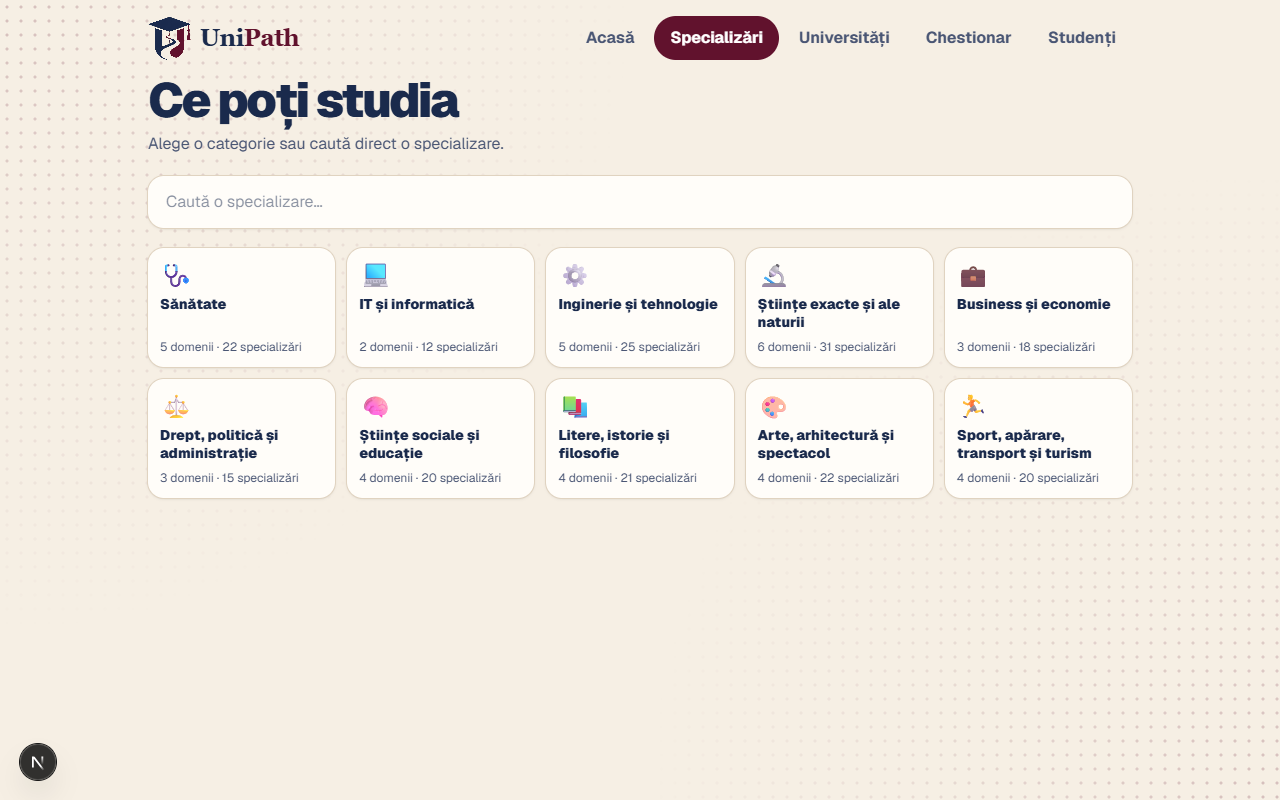
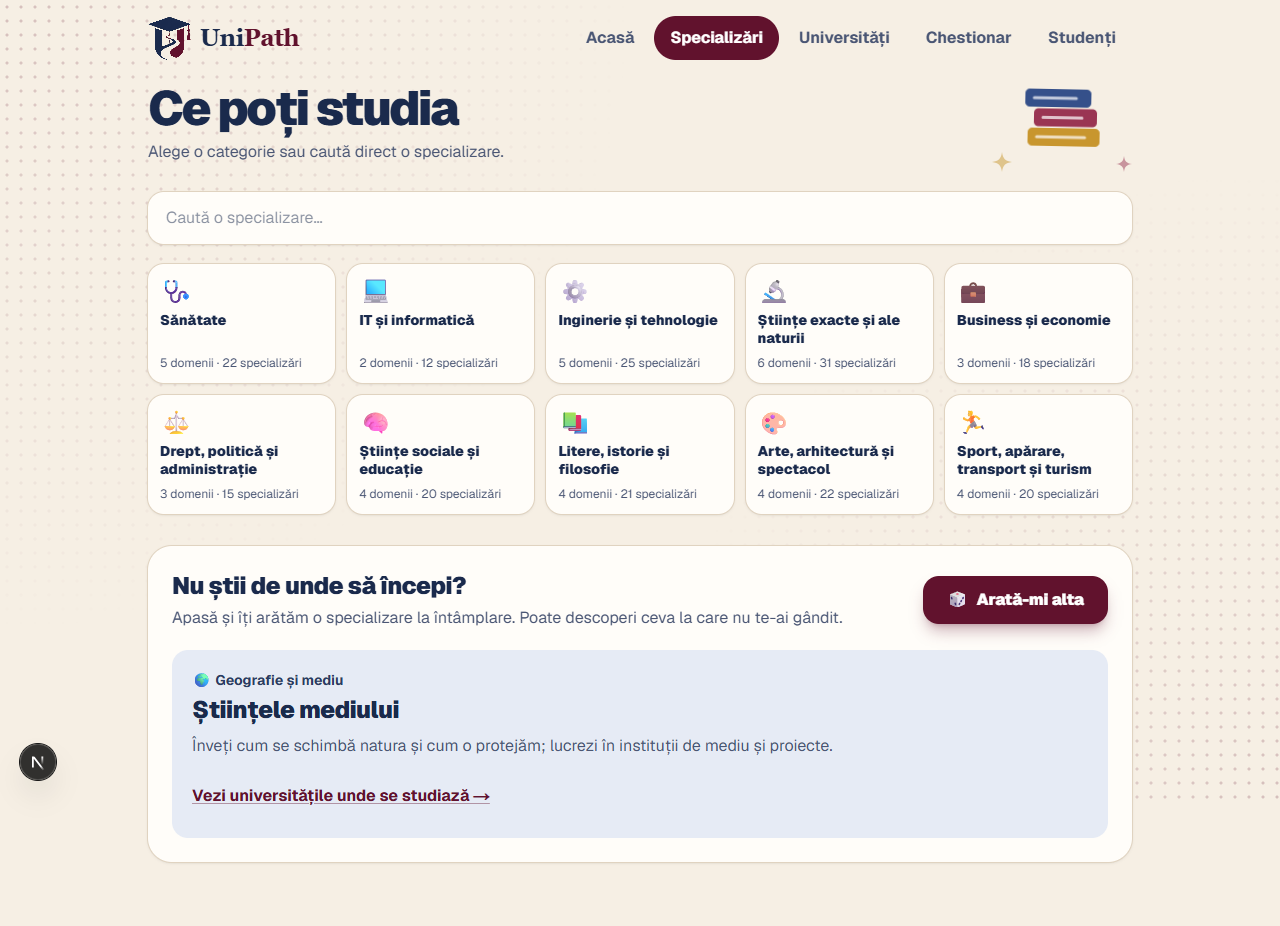
feat: illustration and a surprise-me card on the specializations page

diff --git a/apps/web/components/SurpriseSpecialization.tsx b/apps/web/components/SurpriseSpecialization.tsx
@@ -1,0 +1,67 @@
+"use client";
+// "Surprinde-mă": a button that shows one specialization picked at random, with its domain, a short description and a link to universities.
+import Link from "next/link";
+import { useState } from "react";
+import { domains, specializations } from "@/lib/data";
+import type { Specialization } from "@/lib/types";
+import { FAMILY_CLASSES, domainStyle } from "./domainStyle";
+
+export function SurpriseSpecialization() {
+  const [pick, setPick] = useState<Specialization | null>(null);
+  const [count, setCount] = useState(0);
+
+  // Picks on click only (never during render), and never the same one twice in a row.
+  function surprise() {
+    if (specializations.length === 0) return;
+    let next = specializations[Math.floor(Math.random() * specializations.length)];
+    if (pick && specializations.length > 1) {
+      while (next.id === pick.id) next = specializations[Math.floor(Math.random() * specializations.length)];
+    }
+    setPick(next);
+    setCount((c) => c + 1);
+  }
+
+  const domain = pick ? domains.find((d) => d.id === pick.domainId) : undefined;
+  const style = pick ? domainStyle(pick.domainId) : undefined;
+  const family = style ? FAMILY_CLASSES[style.family] : undefined;
+
+  return (
+    <section aria-labelledby="surpriza" className="mt-8 rounded-3xl bg-card p-6 shadow-sm ring-1 ring-line">
+      <div className="flex flex-col gap-4 sm:flex-row sm:items-center sm:justify-between">
+        <div>
+          <h2 id="surpriza" className="text-2xl font-black tracking-tight text-ink">
+            Nu știi de unde să începi?
+          </h2>
+          <p className="mt-1 text-ink-soft">Apasă și îți arătăm o specializare la întâmplare. Poate descoperi ceva la care nu te-ai gândit.</p>
+        </div>
+        <button
+          type="button"
+          onClick={surprise}
+          className="min-h-12 shrink-0 rounded-2xl bg-primary px-6 py-3 font-black text-white shadow-lg shadow-primary/30 transition hover:bg-primary-dark active:scale-[0.98]"
+        >
+          <span aria-hidden className="mr-2">🎲</span>
+          {pick ? "Arată-mi alta" : "Surprinde-mă"}
+        </button>
+      </div>
+
+      <div aria-live="polite">
+        {pick && domain && style && family && (
+          <div key={count} className={`rise mt-5 rounded-2xl p-5 ${family.band}`}>
+            <p className={`text-sm font-bold ${family.text}`}>
+              <span aria-hidden className="mr-1">{style.emoji}</span>
+              {domain.name}
+            </p>
+            <p className="mt-1 text-2xl font-black tracking-tight text-ink">{pick.name}</p>
+            <p className="mt-2 text-ink-soft">{pick.short}</p>
+            <Link
+              href={`/universitati?domeniu=${pick.domainId}`}
+              className="mt-4 inline-flex min-h-11 items-center font-bold text-primary underline decoration-primary/40 underline-offset-2 hover:text-primary-dark"
+            >
+              Vezi universitățile unde se studiază →
+            </Link>
+          </div>
+        )}
+      </div>
+    </section>
+  );
+}

diff --git a/apps/web/app/specializari/page.tsx b/apps/web/app/specializari/page.tsx
@@ -1,5 +1,6 @@
-// All study fields: category tiles, or filtered domains and specializations when the student types.
+// All study fields: category tiles and a "surprise me" card, or filtered domains and specializations when the student types.
 import type { Metadata } from "next";
+import { Books, Sparkle } from "@/components/Illustrations";
 import { Shell } from "@/components/Shell";
 import { SpecializationsBrowser } from "@/components/SpecializationsBrowser";
 
@@ -8,8 +9,17 @@ export const metadata: Metadata = { title: "Specializări | UniPath" };
 export default function SpecializationsPage() {
   return (
     <Shell wide>
-      <h1 className="rise text-4xl font-black tracking-tighter text-ink sm:text-5xl">Ce poți studia</h1>
-      <p className="mt-2 mb-5 text-ink-soft">Alege o categorie sau caută direct o specializare.</p>
+      <div className="rise mb-5 flex items-center justify-between gap-4">
+        <div>
+          <h1 className="text-4xl font-black tracking-tighter text-ink sm:text-5xl">Ce poți studia</h1>
+          <p className="mt-2 text-ink-soft">Alege o categorie sau caută direct o specializare.</p>
+        </div>
+        <div aria-hidden className="flex shrink-0 items-end gap-1">
+          <Sparkle className="twinkle h-5 w-5 fill-teal" />
+          <Books className="float h-20 w-20 sm:h-24 sm:w-24" />
+          <Sparkle className="twinkle h-4 w-4 fill-violet" />
+        </div>
+      </div>
       <SpecializationsBrowser />
     </Shell>
   );

diff --git a/apps/web/components/SpecializationsBrowser.tsx b/apps/web/components/SpecializationsBrowser.tsx
@@ -5,6 +5,7 @@ import { categories, domains } from "@/lib/data";
 import { normalize, specializationsFor } from "@/lib/universities";
 import { CategoryTiles } from "./CategoryTiles";
 import { DomainDetails } from "./DomainDetails";
+import { SurpriseSpecialization } from "./SurpriseSpecialization";
 
 export function SpecializationsBrowser() {
   const [query, setQuery] = useState("");
@@ -48,6 +49,7 @@ export function SpecializationsBrowser() {
       {!q ? (
         <div className="mt-5">
           <CategoryTiles />
+          <SurpriseSpecialization />
         </div>
       ) : view.length === 0 ? (
         <div className="mt-4 rounded-2xl bg-card p-6 text-center ring-1 ring-line" role="status">

diff --git a/docs/MAP.md b/docs/MAP.md
@@ -95,7 +95,7 @@ _Open only the files listed here; a file's description is its first comment line
 
 ### apps/web/app/specializari  (1 files)
 
-- `page.tsx` (17) — All study fields: category tiles, or filtered domains and specializations when the student types.. Routes: /specializari. Exports: metadata, SpecializationsPage
+- `page.tsx` (27) — All study fields: category tiles and a "surprise me" card, or filtered domains and specializations when the student types.. Routes: /specializari. Exports: metadata, SpecializationsPage
 
 ### apps/web/app/studenti  (1 files)
 
@@ -113,7 +113,7 @@ _Open only the files listed here; a file's description is its first comment line
 
 - `page.tsx` (20) — University finder page: search box, filters and top 10 results (the client part reads the URL query).. Routes: /universitati. Exports: metadata, UniversitiesPage
 
-### apps/web/components  (18 files)
+### apps/web/components  (19 files)
 
 - `ActivitiesStep.tsx` (227) — Quiz step "Ce ai făcut până acum?": add up to 5 activities (kind, area, level, name, optional diploma photo).. Exports: ActivitiesStep
 - `ActivitiesSummary.tsx` (33) — Read-only list of the student's activities with thumbnails (a tap opens the photo larger).. Exports: ActivitiesSummary
@@ -125,8 +125,9 @@ _Open only the files listed here; a file's description is its first comment line
 - `NavLinks.tsx` (39) — Header navigation links with the current page highlighted.. Exports: NavLinks
 - `SearchBox.tsx` (45) — Search box with a magnifier icon; submits to /universitati?q=... or calls onSearch when given.. Exports: SearchBox
 - `Shell.tsx` (40) — Page frame shared by all screens: header with the UniPath logo and three-dots motif, and a centered content column.. Exports: Shell, Notice
-- `SpecializationsBrowser.tsx` (80) — /specializari body: a text filter over all categories, domains and specializations; without text it shows the category tiles.. Exports: SpecializationsBrowser
+- `SpecializationsBrowser.tsx` (82) — /specializari body: a text filter over all categories, domains and specializations; without text it shows the category tiles.. Exports: SpecializationsBrowser
 - `StudentVoices.tsx` (193) — Student opinions with a search box: type a faculty or university and see every opinion we have from there.. Exports: StudentVoices
+- `SurpriseSpecialization.tsx` (68) — "Surprinde-mă": a button that shows one specialization picked at random, with its domain, a short description and a link to universities.. Exports: SurpriseSpecialization
 - `UniversityBadges.tsx` (23) — Small coloured badges for a university's prestige and budget level, shared by result cards and the profile sheet.. Exports: PrestigeBadge, BudgetBadge
 - `UniversityCard.tsx` (61) — Compact university result card: name, place, badges, three short facts and a link to the full sheet (the whole card is clickable).. Exports: UniversityCard
 - `UniversityList.tsx` (48) — Labelled list of the first 3 universities with links, then a "Vezi toate (N)" link to the full search.. Exports: UniversityList

diff --git a/docs/LEDGER.md b/docs/LEDGER.md
@@ -21,6 +21,13 @@ lista de commit-uri de la final se reface singură.
 - Urmează: pasul următor
 -->
 
+### 2026-10-05 02:15 — pagina „Specializări”: desen și „Surprinde-mă”
+- Cerut: pagina de specializări să aibă din nou un desen sau ceva interactiv, la alegerea lui Claude
+- Făcut: desenul cu cărți lângă titlu; sub categorii, cartonașul „Nu știi de unde să începi?” cu butonul „Surprinde-mă”, care arată o specializare la întâmplare (domeniu, descriere, link spre universitățile unde se studiază) și nu repetă aceeași specializare de două ori la rând; cartonașul dispare cât timp elevul caută ceva
+- Fișiere: `apps/web/components/SurpriseSpecialization.tsx` (nou), `apps/web/components/SpecializationsBrowser.tsx`, `apps/web/app/specializari/page.tsx`
+- Poartă: TRECUT (build, 57 teste, pornire); într-un browser separat, pe laptop și la lățime de telefon: butonul arată o specializare cu link corect, 13 apăsări au dat 13 specializări diferite, căutarea „finante” merge în continuare; pagina văzută în captură pe laptop; fără erori în consolă. Nepublicat (nici schimbarea cu un singur logo)
+- Urmează: publicare la cererea echipei; `/pitch`
+
 ### 2026-10-05 01:55 — un singur logo pe pagina principală
 - Cerut: pe pagina de început apăreau două logouri; unul să dispară. Înainte: pagina nouă de start a chestionarului publicată la cererea echipei; ideea cu previzualizarea locală pentru telefon a fost abandonată de echipă, iar setarea începută a fost anulată
 - Făcut: scos logoul mare de deasupra titlului; rămâne cel din antet, prezent pe toate paginile; titlul „Ghidul tău între liceu și facultate” e acum titlul principal al paginii
@@ -269,6 +276,7 @@ lista de commit-uri de la final se reface singură.
 ## Commit-uri (automat)
 
 <!-- commits:start -->
+- 2026-10-05 00:48 `86d84fe` feat: keep a single logo on the home page
 - 2026-10-05 00:27 `3551c80` feat: questionnaire start page with its own title and the start button on top
 - 2026-10-05 00:12 `2c00f9b` feat: UniPath in numbers on the home page
 - 2026-10-04 23:47 `f1683ad` feat: Politehnica faculties and programmes on its sheet, 12 more Romanian universities
@@ -298,5 +306,4 @@ lista de commit-uri de la final se reface singură.
 - 2026-10-04 13:29 `fe42b3d` feat: student voices page, empty until the team brings real opinions
 - 2026-10-04 13:13 `45755bb` docs: add QR code for the public address
 - 2026-10-04 13:05 `a89bbaa` feat: what-if sliders on the result page; record deploy address
-- 2026-10-04 12:54 `34e9f2e` feat: show the team logo and match the palette to it
 <!-- commits:end -->
